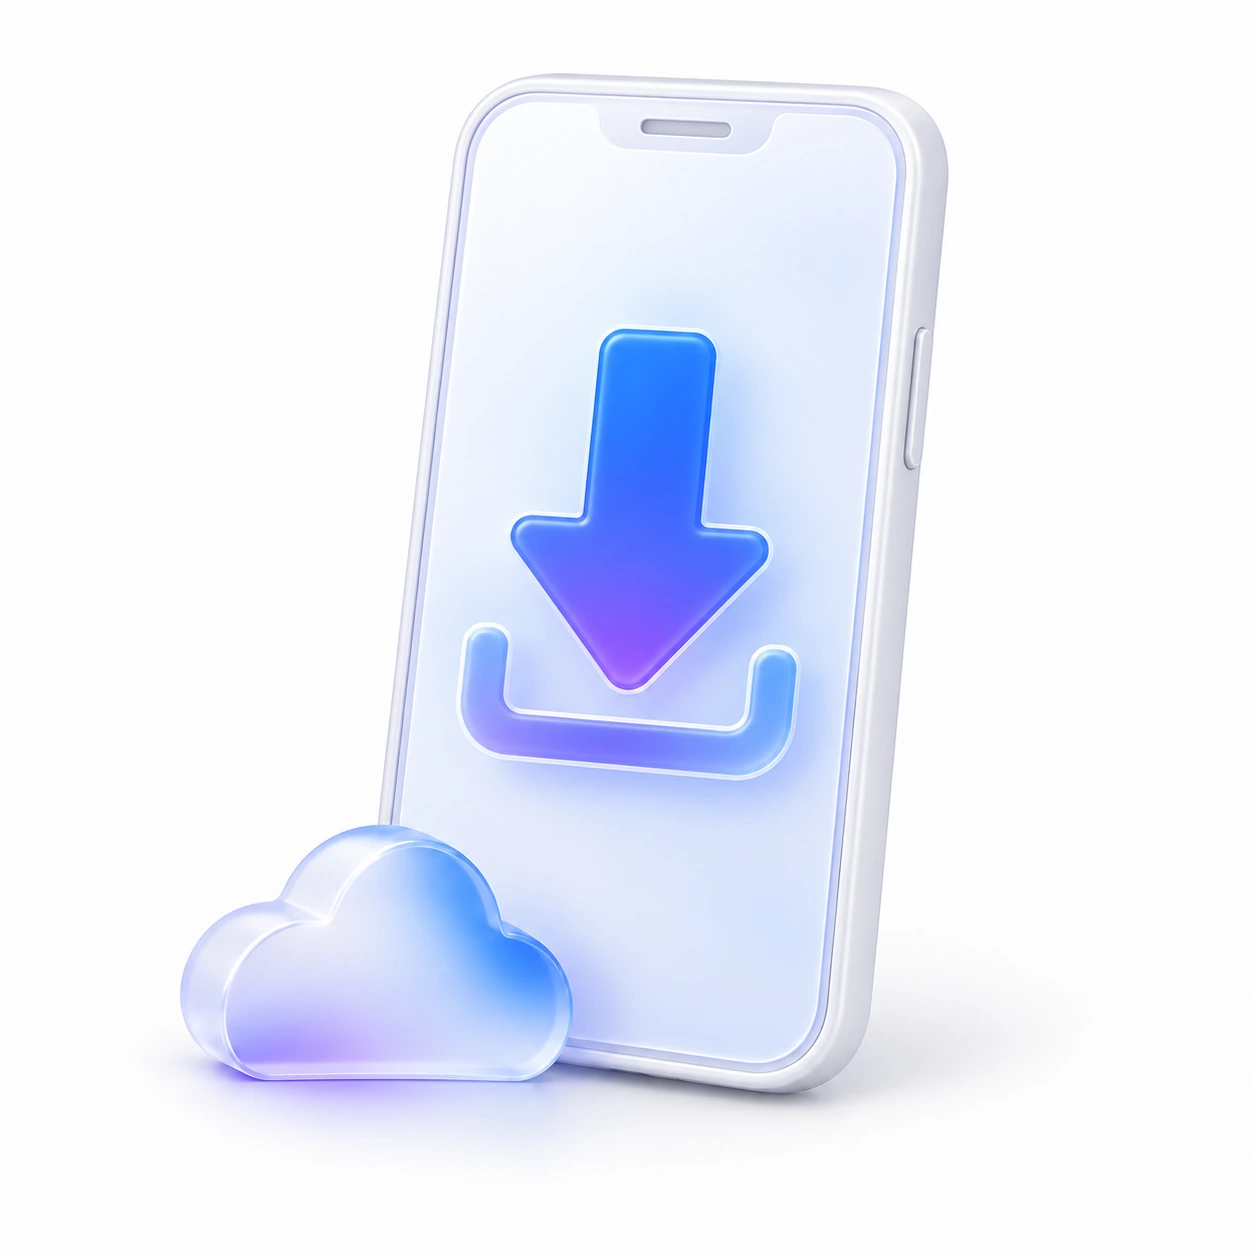
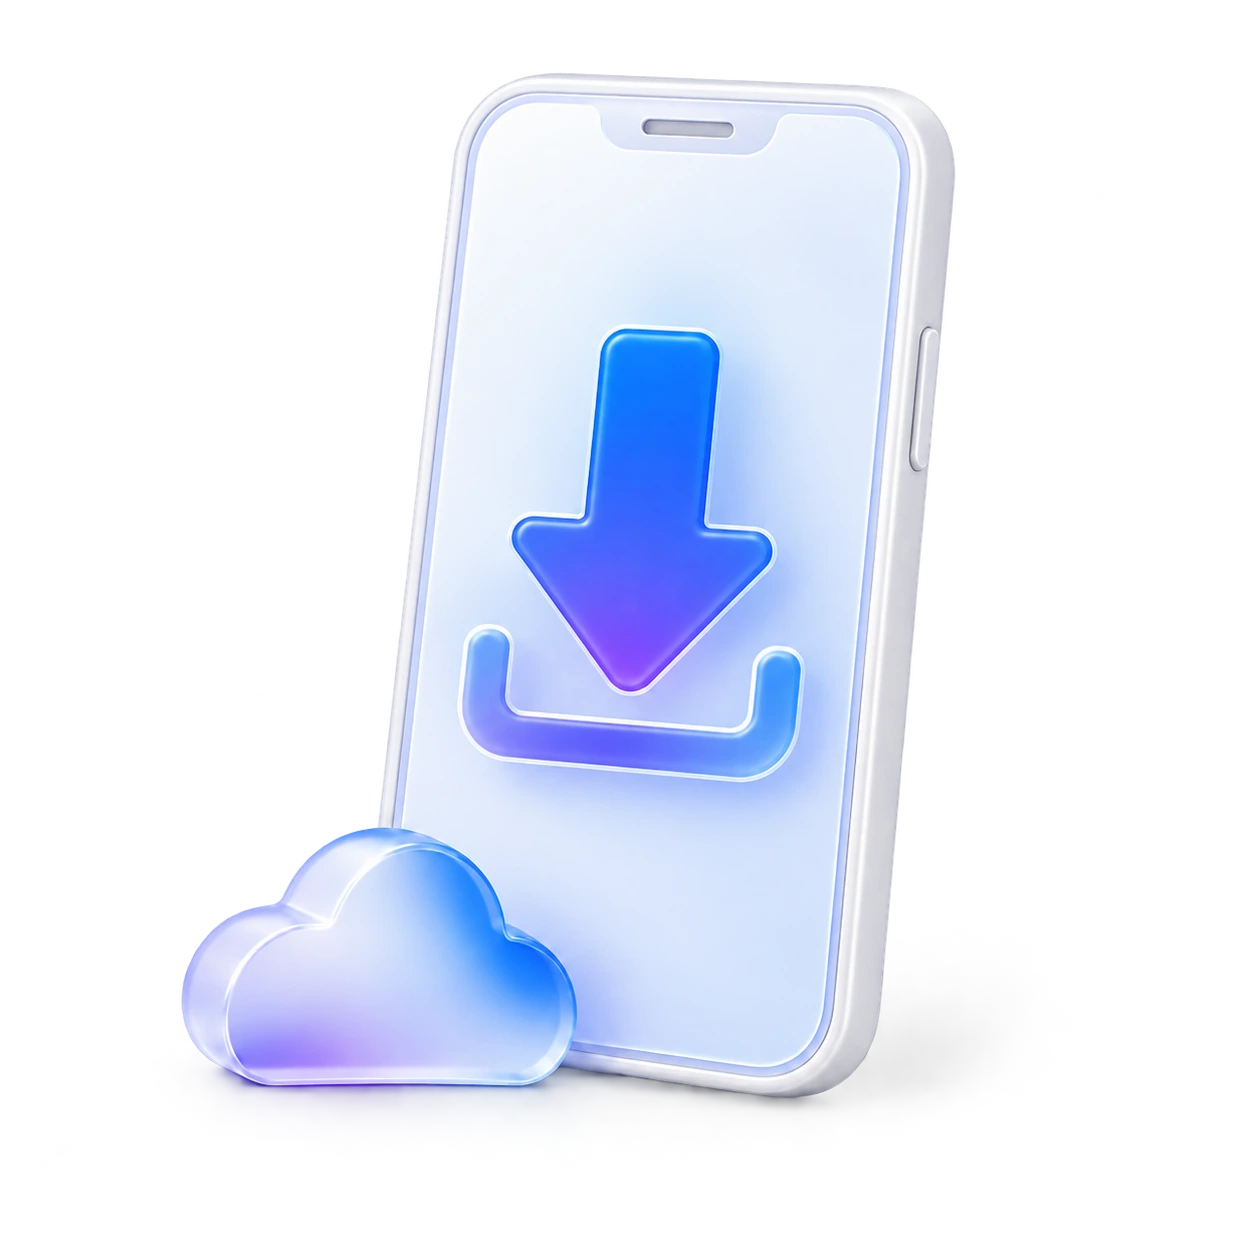
fix(website): use alpha transparency for feature illustrations

diff --git a/website/index.html b/website/index.html
@@ -16,7 +16,7 @@
     <!-- 预加载核心图片资源 -->
     <link rel="preload" as="image" href="assets/dashboard.png?v=resources-15">
 
-    <link rel="stylesheet" href="style.css?v=section-bands-20261004">
+    <link rel="stylesheet" href="style.css?v=alpha-20261004">
 </head>
 <body>
     <a class="skip-link" href="#main">跳到主要内容</a>
@@ -114,7 +114,7 @@
                         </p>
                     </div>
                     <div class="flex justify-center">
-                        <img src="assets/feature-tasks.webp?v=illustrations-20261004" class="feature-illustration" width="1024" height="1024" alt="" aria-hidden="true" loading="lazy" decoding="async">
+                        <img src="assets/feature-tasks.webp?v=alpha-20261004" class="feature-illustration" width="1254" height="1254" alt="" aria-hidden="true" loading="lazy" decoding="async">
                     </div>
                 </div>
             </div>
@@ -122,7 +122,7 @@
             <div class="content-band content-band-muted feature-band">
                 <div class="container feature-grid reverse reveal-element">
                     <div class="flex justify-center">
-                        <img src="assets/feature-regions.webp?v=illustrations-20261004" class="feature-illustration" width="1024" height="1024" alt="" aria-hidden="true" loading="lazy" decoding="async">
+                        <img src="assets/feature-regions.webp?v=alpha-20261004" class="feature-illustration" width="1254" height="1254" alt="" aria-hidden="true" loading="lazy" decoding="async">
                     </div>
                     <div class="feature-text">
                         <h3>多地区账户，统一管理</h3>
@@ -162,7 +162,7 @@
                     <div class="pairing-step">
                         <div class="step-visual">
                             <div class="step-number">01</div>
-                            <img src="assets/feature-install.webp?v=illustrations-20261004" class="step-illustration" width="1024" height="1024" alt="" aria-hidden="true" loading="lazy" decoding="async">
+                            <img src="assets/feature-install.webp?v=alpha-20261004" class="step-illustration" width="1254" height="1254" alt="" aria-hidden="true" loading="lazy" decoding="async">
                         </div>
                         <h4 class="text-xl font-medium mb-4">部署服务并安装 App</h4>
                         <p class="text-secondary leading-relaxed text-sm">
@@ -173,7 +173,7 @@
                     <div class="pairing-step">
                         <div class="step-visual">
                             <div class="step-number">02</div>
-                            <img src="assets/feature-pairing.webp?v=illustrations-20261004" class="step-illustration" width="1024" height="1024" alt="" aria-hidden="true" loading="lazy" decoding="async">
+                            <img src="assets/feature-pairing.webp?v=alpha-20261004" class="step-illustration" width="1254" height="1254" alt="" aria-hidden="true" loading="lazy" decoding="async">
                         </div>
                         <h4 class="text-xl font-medium mb-4">生成配对码</h4>
                         <p class="text-secondary leading-relaxed text-sm">
@@ -184,7 +184,7 @@
                     <div class="pairing-step">
                         <div class="step-visual">
                             <div class="step-number">03</div>
-                            <img src="assets/feature-scan.webp?v=illustrations-20261004" class="step-illustration" width="1024" height="1024" alt="" aria-hidden="true" loading="lazy" decoding="async">
+                            <img src="assets/feature-scan.webp?v=alpha-20261004" class="step-illustration" width="1254" height="1254" alt="" aria-hidden="true" loading="lazy" decoding="async">
                         </div>
                         <h4 class="text-xl font-medium mb-4">扫描连接</h4>
                         <p class="text-secondary leading-relaxed text-sm">

diff --git a/website/style.css b/website/style.css
@@ -404,11 +404,6 @@
         .pairing-intro { padding: 128px 0 64px; }
         .pairing-guide { padding: 64px 0 80px; }
 
-        .content-band-muted .feature-illustration,
-        .content-band-muted .step-illustration {
-            mix-blend-mode: multiply;
-        }
-
         .feature-grid {
             display: grid;
             grid-template-columns: repeat(2, 1fr);

diff --git a/website/README.md b/website/README.md
@@ -4,7 +4,7 @@
 
 使用前置条件：先在用户自己的 VPS 上部署支持「API 设置 → App 配对」的 [gokele/ovh 服务](https://github.com/gokele/ovh)，配置 OVH 账户，并准备手机可访问的 HTTPS 网页面板地址，再安装 App、生成配对码并连接。上游 [部署文档](https://github.com/gokele/ovh#部署方式) 提供 Docker 等方式。首页下载入口、安装与配对区的前置条件说明、FAQ、下载区和页脚均明确该要求，并提供服务项目链接；缺少 App 配对入口时需先更新服务。App 与网页读取同一服务的数据。
 
-功能、部署与配对区使用铺满页面宽度的白色 / 浅灰色背景交替区分：任务功能为白色，多地区账户为浅灰，部署说明为白色，三步配对指南为浅灰。前置条件与步骤保持开放式排版，不使用圆角卡片；服务项目及部署文档使用无阴影的文字链接。保留原生成插图，在浅灰区域通过 CSS 混合去掉图片白底的方块感。
+功能、部署与配对区使用铺满页面宽度的白色 / 浅灰色背景交替区分：任务功能为白色，多地区账户为浅灰，部署说明为白色，三步配对指南为浅灰。前置条件与步骤保持开放式排版，不使用圆角卡片；服务项目及部署文档使用无阴影的文字链接。五张功能插图已改为真实 Alpha 透明素材，移除原来的 CSS 混合样式，在两种背景下直接显示。
 
 使用用户已登录的 Chrome Gemini Pro Canvas 重新设计官网，视觉参考 Gemini 产品官网 <https://gemini.google/us/about/?hl=en>。采用固定浅色主题、居中轻字重大标题、原生 Canvas 3D 蓝紫粒子云、胶囊按钮、真实截图产品舞台与交错功能介绍。官网的白色与浅灰背景和三张浅色 App 示例统一，操作系统的深色偏好不会切换官网主题。
 
@@ -12,7 +12,7 @@
 
 保留下载、安装与配对说明、GitHub 备用、版本与校验信息，并补全移动导航和可访问的截图切换。下载二维码指向本网站；连接 App 的配对码由用户自己的网页面板生成。iOS 入口指向真实发布信息，不使用未确认的商店下载地址。
 
-五张功能插图使用图像生成工具制作，统一纯白背景、白色瓷质与磨砂玻璃、蓝紫点缀：任务、全球账户、安装、生成配对码、扫码连接。网页加载 `assets/feature-*.webp`，总大小约 300 KB，采用延迟加载与固定宽高比。后三张参照第一张的材质、光线与配色生成；完整提示词和素材说明见 [插图记录](artwork/README.md)。插图里的配对图案是装饰，真实下载二维码与 App 截图继续使用原资源。
+五张功能插图使用图像生成工具制作，统一白色瓷质与磨砂玻璃、蓝紫点缀：任务、全球账户、安装、生成配对码、扫码连接。最新版本由内置图像编辑工具移除白底，网页加载带 Alpha 的 `assets/feature-*.webp`，总大小约 834 KB，采用延迟加载与固定宽高比。格式转换保留生成结果的 Alpha 通道，四角完全透明；完整提示词、最终素材路径及透明验证见 [插图记录](artwork/README.md)。插图里的配对图案是装饰，真实下载二维码与 App 截图继续使用原资源。
 
 接入时校正文案中的绝对安全承诺与凭据处理说明，补全键盘操作、减少动画偏好和脚本失效时的内容展示；样式与脚本外置以兼容现有 CSP。测试覆盖桌面、390px/360px 手机、菜单、截图、FAQ、校验复制、减少动态效果及禁用 JavaScript 场景。当前上线截图与验证见 [验证记录](verification.md)。
 

diff --git a/website/artwork/README.md b/website/artwork/README.md
@@ -1,3 +1,27 @@
+# 透明背景版本 · 2026-10-04
+
+使用内置 image_gen 编辑工具对原五张功能插图逐张执行背景移除，参数 `transparent_background: true`，保留原造型、材质与蓝紫配色。接口未返回可核验的模型版本。最终网页资源为带真实 Alpha 通道的 RGBA WebP（质量 92），转换格式时逐像素核对 Alpha 与生成 PNG 完全一致，没有另写抠图算法。
+
+五张素材的 Alpha 范围均为 0–255，四个角像素均为 0，均包含完全透明像素与半透明边缘 / 阴影。总大小 834,396 字节。网页移除 `mix-blend-mode: multiply`，使用 `alpha-20261004` 资源版本。
+
+| 素材 | 最终路径 | 尺寸 | 文件字节 | 完全透明像素 | 部分透明像素 |
+| --- | --- | --- | ---: | ---: | ---: |
+| tasks | [feature-tasks.webp](../assets/feature-tasks.webp) | 1254 × 1254 | 165,562 | 712,017 | 859,413 |
+| regions | [feature-regions.webp](../assets/feature-regions.webp) | 1254 × 1254 | 201,368 | 793,111 | 778,287 |
+| install | [feature-install.webp](../assets/feature-install.webp) | 1254 × 1254 | 130,590 | 932,173 | 639,643 |
+| pairing | [feature-pairing.webp](../assets/feature-pairing.webp) | 1254 × 1254 | 163,106 | 564,881 | 1,005,862 |
+| scan | [feature-scan.webp](../assets/feature-scan.webp) | 1254 × 1254 | 173,770 | 945,374 | 626,297 |
+
+共同编辑提示词（每次输入只有对应原插图，角色为 edit target）：
+
+```text
+Use case: background-extraction. Asset type: existing OVH CP website feature illustration. The supplied image is the EDIT TARGET. Remove only its white background and floor/backdrop, producing genuine RGBA transparency with alpha 0 in the empty space and all four corners. Preserve the existing object group, its exact composition, camera angle, silhouette, white porcelain and frosted-glass materials, blue-violet colors, highlights, symbols and proportions. Keep white portions of the objects opaque; do not key out their white surfaces. Preserve clean anti-aliased edges. Retain only a small soft contact shadow as semi-transparent alpha, with no opaque white floor, halo, rectangle or backdrop. Where an original light beam or glass is translucent, retain its natural transparency. Square framing with all objects fully inside the frame and similar scale to the original. No additions, no text, no watermark. Do not paint a checkerboard; the background must be actual transparent pixels.
+```
+
+原始透明 PNG 由生成工具保留在本地生成目录，网页仅部署上表五张 WebP。以下为原白底版本的生成记录，当前资源已经替换为上方的透明版本。
+
+---
+
 # 官网功能插图 · 2026-10-04
 
 使用内置 `image_gen` 图像生成工具；本次接口未返回可核验的模型版本。前两张按同一风格规范生成，后三张使用任务插图作为材质、光线和配色参考。所有功能插图统一纯白背景、白色瓷质与磨砂玻璃、蓝紫点缀，保持真实应用截图与功能二维码。

diff --git a/website/verification.md b/website/verification.md
@@ -1,3 +1,19 @@
+# 2026-10-04 · 功能插图改为真实 Alpha 透明背景
+
+使用内置图像编辑工具移除五张功能插图的背景，保留白色瓷质、磨砂玻璃与蓝紫配色。网页改用 RGBA WebP，移除 `mix-blend-mode: multiply`，资源版本更新为 `alpha-20261004`。编辑提示词、最终路径及透明像素统计见 [插图记录](artwork/README.md)。
+
+- 五张图片均为 1254 × 1254，Alpha 范围为 0–255，四角完全透明，包含半透明边缘与阴影；转换 WebP 时核对 Alpha 与生成 PNG 逐像素一致。五张合计 834,396 字节。
+- 实际 Chrome 桌面 1141px、手机 390px / 360px 检查通过，无横向溢出；五张插图在白色及浅灰区域无白色矩形底。发布后配对三张图加载正常，混合模式为 `normal`，页面未捕获警告或错误。测试视口及模拟偏好已恢复，以下截图来自上线后的官网。
[1 lines of base64/hex data omitted]
+- 原面板 API 健康正常，正式 APK SHA-256 与既有 Build 15 一致。
+- 回滚快照：`/opt/1panel/backups/ovh-cp-download/20261004T045930Z-alpha`。文档与验证截图只保存于仓库。
+
+![Alpha 透明插图：电脑](verification/alpha-desktop.png)
+
+![Alpha 透明插图：手机](verification/alpha-mobile.png)
+
+---
+
 # 2026-10-04 · 扁平区域使用交替背景
 
 按用户参考图，使用铺满页面宽度的白色与浅灰背景区分区域：库存任务为白色，多地区账户为浅灰，部署说明为白色，三步配对为浅灰。前置条件与步骤保持扁平，无卡片圆角或阴影；页脚改为白色，与浅灰下载区区分。保留现有文案、服务项目及文档链接、插图和应用预览。浅灰区域的装饰插图使用 CSS `multiply` 混合，避免白色方块底。
